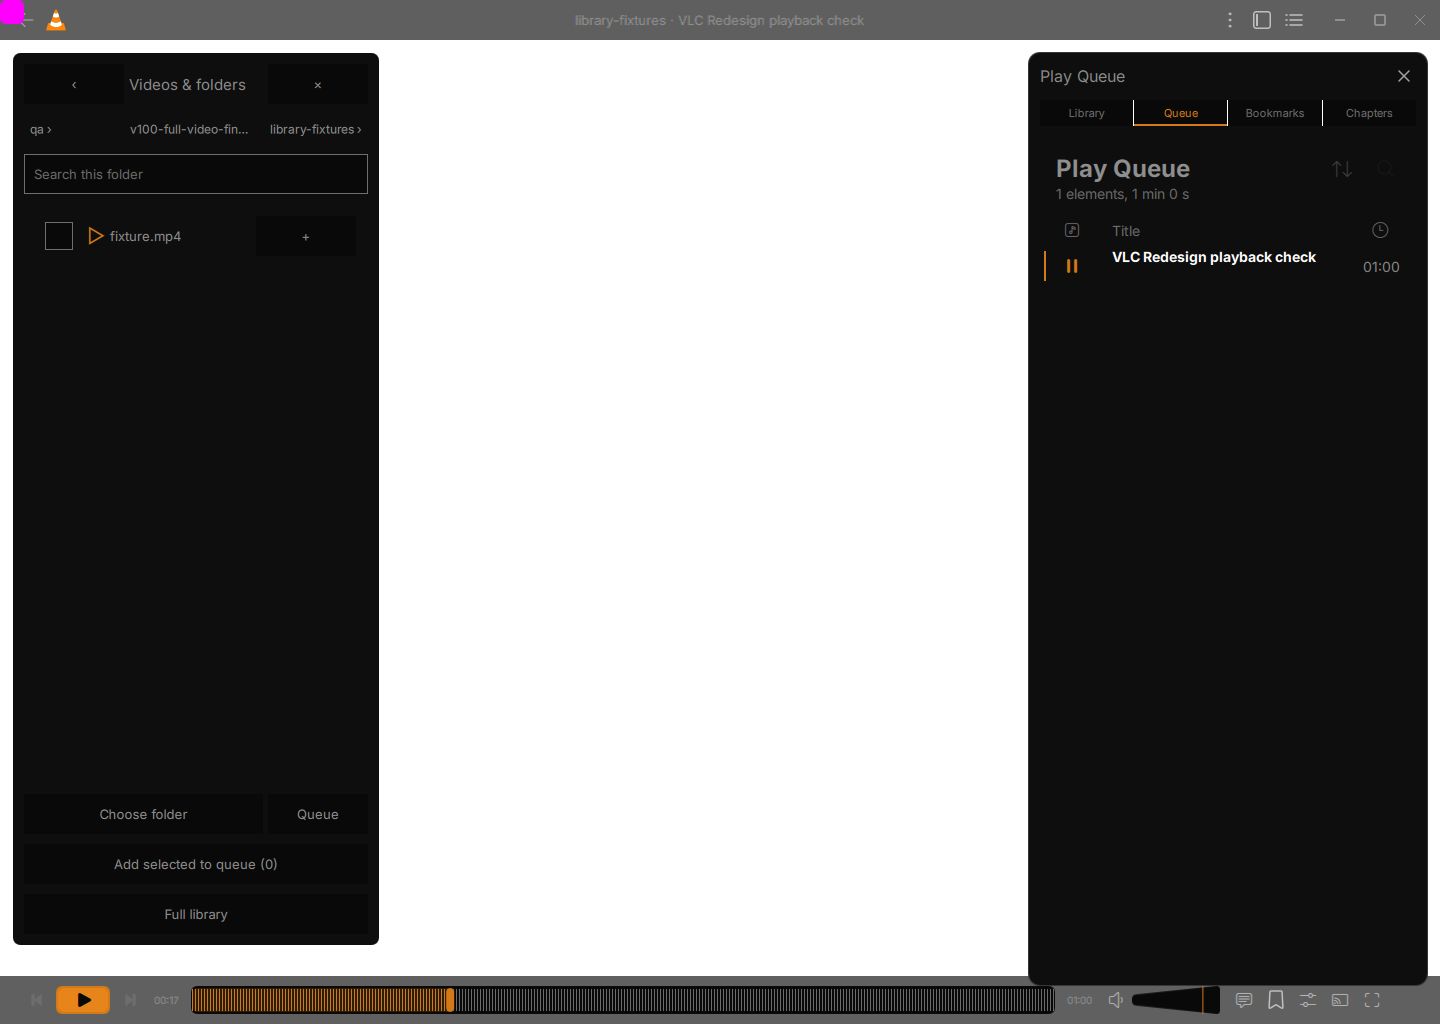
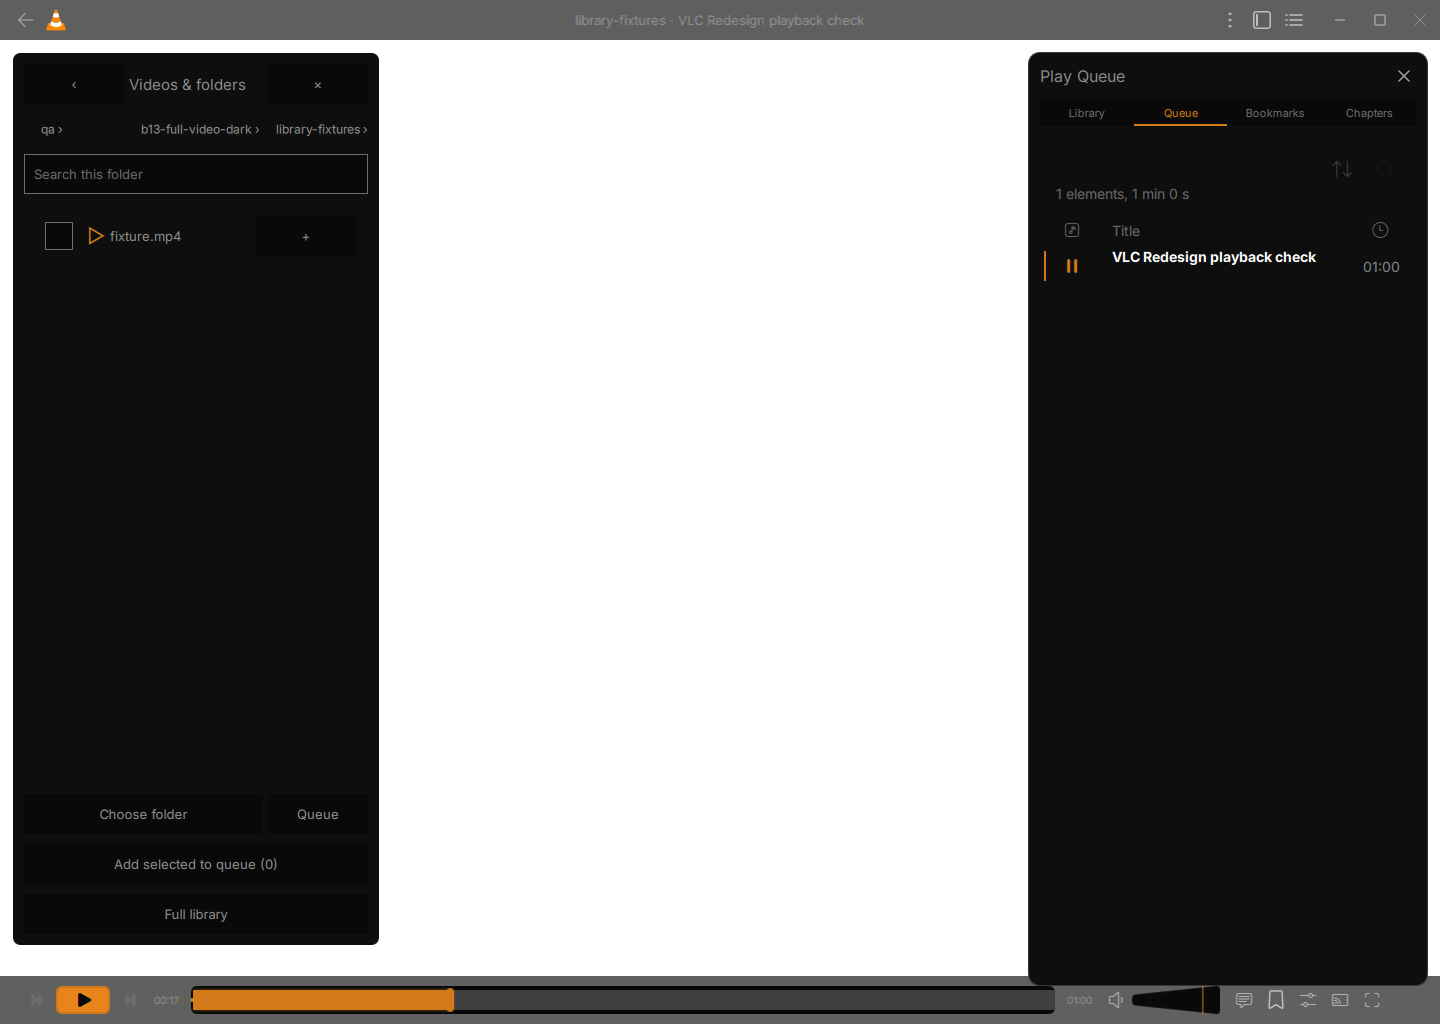
Draw the seek bar waveform as one continuous shape
Thin 1px waveform bars let the dark track show through as dense black stripes,
most visibly on steady audio. Adjacent 2px columns now form a continuous shape:
accent where played, a neutral theme grey where not. Screenshots that showed the
seek bar are retaken from the hidden QA runner (14/14 runs clean).

diff --git a/vlc/modules/gui/qt/player/qml/SliderBar.qml b/vlc/modules/gui/qt/player/qml/SliderBar.qml
@@ -534,23 +534,25 @@ T.ProgressBar {
             anchors.fill: parent
             visible: control.waveformPeaks.length > 0
             Repeater {
-                model: Math.floor(waveformBars.width / 3)
+                model: Math.floor(waveformBars.width / 2)
                 Rectangle {
                     required property int index
                     readonly property real peak: {
                         const values = control.waveformPeaks
-                        const count = Math.max(1, Math.floor(waveformBars.width / 3))
+                        const count = Math.max(1, Math.floor(waveformBars.width / 2))
                         const begin = Math.floor(index * values.length / count)
                         const end = Math.max(begin + 1, Math.floor((index + 1) * values.length / count))
                         let value = 0
                         for (let sample = begin; sample < end; ++sample) value = Math.max(value, values[sample] ?? 0)
                         return value
                     }
-                    x: index * 3 + 1
-                    width: 1
-                    height: Math.max(1, peak * (waveformBars.height - 6))
+                    // adjacent 2px columns form one continuous waveform shape; spaced 1px
+                    // bars showed the dark track between them as dense black stripes
+                    x: index * 2
+                    width: 2
+                    height: Math.max(2, peak * (waveformBars.height - 8))
                     y: (waveformBars.height - height) / 2
-                    color: x <= control.visualPosition * waveformBars.width ? theme.accent : "#6b6b6b"
+                    color: x <= control.visualPosition * waveformBars.width ? theme.accent : ((theme.palette?.isDark ?? true) ? "#3f3f3f" : "#c4c4c4")
                 }
             }
         }

diff --git a/docs/RELEASE-NOTES.md b/docs/RELEASE-NOTES.md
@@ -33,6 +33,8 @@ Check the download against the `.sha256` file published next to it.
 
 ## Fixes in this release (click-through bug hunt)
 
+- **Seek bar waveform:** the waveform is now one continuous shape, with the played part in the accent colour and the rest in a neutral grey that suits each theme. Before, thin 1 px bars let the dark track show through as dense black stripes, most visibly on steady audio.
+
 - **Settings:**
   - Float options show their real value, so Volume step reads `12.8` instead of `12.800000190734863`.
   - A default audio or subtitle track of `-1` shows as **Auto**, and clearing the field stores Auto again.
